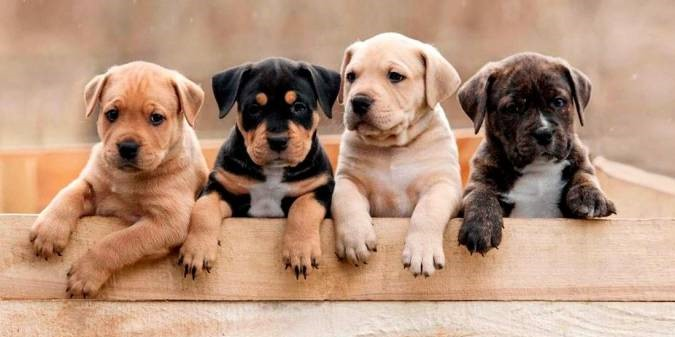
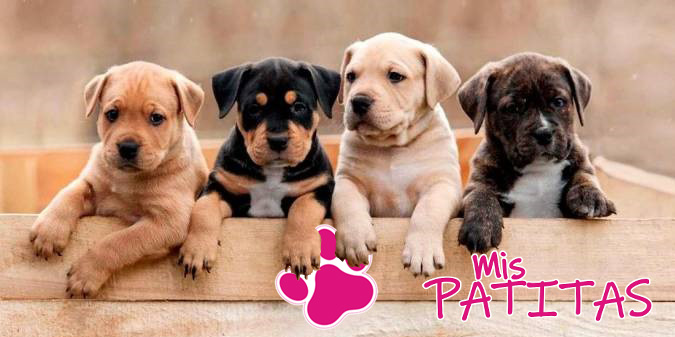
agregado de imagenes editadas y correciones en codigo index y secciones y productos

Changed region(s): [[0.6222, 0.7418, 0.9644, 0.9496], [0.4044, 0.6528, 0.56, 0.9792]]

diff --git a/seccion-pequenas.html b/seccion-pequenas.html
@@ -21,28 +21,27 @@
     <div id="border50" style="padding: 20px;">
         <img src="./MP IMG/pequenas-en-cosntruccion.jpg" alt="" style="width: 40vw;">
     </div>
-
-    <!-- Imagen trigger para modal -->
-    <img src="./MP IMG/huella-click.png" style="cursor: pointer;" alt="huella-click-aquí" data-bs-toggle="modal" data-bs-target="#exampleModal">
+      <!-- Imagen trigger para modal -->
+    <img id="huella-click" src="./MP IMG/huella-click.png" style="cursor: pointer;" alt="huella-click-aquí" data-bs-toggle="modal" data-bs-target="#exampleModal">
       
     <!-- Modal -->
     <div class="modal fade" id="exampleModal" tabindex="-1" aria-labelledby="exampleModalLabel" aria-hidden="true">
-        <div class="modal-dialog">
-          <div class="modal-content">
-            <div class="modal-header">
-              <h1 class="modal-title fs-5" id="exampleModalLabel">Ahora en Mis Patitas...</h1>
-              <button type="button" class="btn-close" data-bs-dismiss="modal" aria-label="Close"></button>
-            </div>
-            <div class="modal-body">
-              <p>Estamos trabajando para brindarte la mejor experiencia en nuestro sitio!!</p>
-              <p>En breve ya estará todo listo!</p>
-              <div><p>Te esperamos</p>
-                  <!-- <img src="" alt=""> -->
+      <div class="modal-dialog">
+        <div class="modal-content">
+          <div class="modal-header">
+            <h1 class="modal-title fs-5" id="exampleModalLabel">Ahora en Mis Patitas...</h1>
+            <button type="button" class="btn-close" data-bs-dismiss="modal" aria-label="Close"></button>
+          </div>
+          <div class="modal-body">
+            <p>Estamos trabajando para brindarte la mejor experiencia en nuestro sitio!!</p>
+            <p>En breve ya estará todo listo!</p>
+            <div><p>Te esperamos</p>
+                <img style="width: 30px;" src="./MP IMG/huella-sola.png" alt="huella logo mis patitas">
             </div>
           </div>     
         </div>
+      </div>
     </div>
-
 </main>
 <footer>
     Tienda de Mascotas "Mis Patitas" Mar del Plata- 2023

diff --git a/index.html b/index.html
@@ -49,17 +49,17 @@
        <div class="nuestras-secciones">
           <a href="./seccion-gatos.html">
           <img src="./Fotos-Index/Section-gatos.jpg" alt="Sección Gatos"></a>
-          <div class="seccion-mascota"><p>Sección Gatos</p></div>
+          <div class="seccion-mascota"><a href="./seccion-gatos.html"><p>Sección Gatos</p></a></div>
       </div>
        <div class="nuestras-secciones">
         <a href="././seccion-perros.html">
         <img src="./Fotos-Index/Section-Perros.jpg" alt="Sección Perros"></a>
-        <div class="seccion-mascota"><p>Sección Perros</p></div>
+        <div class="seccion-mascota"><a href="./seccion-perros.html"><p>Sección Perros</p></a></div>
       </div>
        <div class="nuestras-secciones">
         <a href="./seccion-pequenas.html">
         <img src="./Fotos-Index/Section-pequeñas-mascotas.jpg" alt="Sección Pequeñas Mascotas"></a>
-        <div class="seccion-mascota"><p>Sección Pequeñas Mascotas</p></div>
+        <div class="seccion-mascota"><a href="./seccion-pequenas.html"><p>Pequeñas Mascotas</p></a></div>
       </div>
     </div>
     
@@ -71,9 +71,9 @@
         <p>Lorem, ipsum dolor sit amet consectetur adipisicing elit. Suscipit reprehenderit provident, nisi porro dignissimos minus eveniet praesentium cum placeat deleniti non laboriosam mollitia? Alias, laboriosam numquam maiores odio repellendus possimus assumenda voluptatibus dolorum. Quasi a, unde minima officia, at ut ipsa necessitatibus, totam provident hic eos inventore amet neque illum?</p>
  
     <div id="grilla1">
-       <a href="./alimentos.html"><img src="./MP IMG/ALIMENTO-LOGO-PRUEBA.jpg" alt=""></a>
-       <img src="./MP IMG/ROPA-LOGO-PRUEBA.jpg" alt="">
-       <img src="./MP IMG/ACCESORIOS-PRUEBA.png" alt="">
+       <a href="./alimentos.html"><img src="./Fotos-Index/producto-alimentos.jpg" alt=""></a>
+       <img src="./Fotos-Index/producto-ropa.jpg" alt="">
+       <img src="./Fotos-Index/producto-accesorios.jpg" alt="">
        <!-- <img src="https://placehold.co/150x150" alt=""> -->
 
     </div>

diff --git a/seccion-perros.html b/seccion-perros.html
@@ -23,24 +23,25 @@
     </div>
 
     <!-- Imagen trigger para modal -->
-    <img src="./MP IMG/huella-click.png" style="cursor: pointer;" alt="huella-click-aquí" data-bs-toggle="modal" data-bs-target="#exampleModal">
-      
+    <img id="huella-click" src="./MP IMG/huella-click.png" style="cursor: pointer;" alt="huella-click-aquí" data-bs-toggle="modal" data-bs-target="#exampleModal">
+    
     <!-- Modal -->
     <div class="modal fade" id="exampleModal" tabindex="-1" aria-labelledby="exampleModalLabel" aria-hidden="true">
-        <div class="modal-dialog">
-          <div class="modal-content">
-            <div class="modal-header">
-              <h1 class="modal-title fs-5" id="exampleModalLabel">Ahora en Mis Patitas...</h1>
-              <button type="button" class="btn-close" data-bs-dismiss="modal" aria-label="Close"></button>
-            </div>
-            <div class="modal-body">
-              <p>Estamos trabajando para brindarte la mejor experiencia en nuestro sitio!!</p>
-              <p>En breve ya estará todo listo!</p>
-              <div><p>Te esperamos</p>
-                  <img src="" alt="">
+      <div class="modal-dialog">
+        <div class="modal-content">
+          <div class="modal-header">
+            <h1 class="modal-title fs-5" id="exampleModalLabel">Ahora en Mis Patitas...</h1>
+            <button type="button" class="btn-close" data-bs-dismiss="modal" aria-label="Close"></button>
+          </div>
+          <div class="modal-body">
+            <p>Estamos trabajando para brindarte la mejor experiencia en nuestro sitio!!</p>
+            <p>En breve ya estará todo listo!</p>
+            <div><p>Te esperamos</p>
+                <img style="width: 30px;" src="./MP IMG/huella-sola.png" alt="huella logo mis patitas">
             </div>
           </div>     
         </div>
+      </div>
     </div>
 
 </main>

diff --git a/styles.css b/styles.css
@@ -174,20 +174,20 @@ footer{
 .tipo-bolsa{
     display: none;
     position: absolute;
-    top: 100%;
+    top: 75%;
     left: 50%;
     transform: translateX(-50%);
     width: 150px;
-    color: black;
-    background-color: rgb(228, 225, 225)
+    color: rgb(26, 25, 25);
+    font-weight: bold;
+    background-color: rgb(228, 225, 225, 0.7)
     
 }
 .alim-item:hover .tipo-bolsa{
     display: flex;
     flex-direction: column;
     border-radius: 15px;
-    border: 1px solid;
-    box-shadow: 0 0 10px rgba(0, 0, 0, 0.7);
+    border: 2px solid;
     transition: top 0.5s;
     z-index: 1;
 
@@ -199,27 +199,32 @@ footer{
 .seccion-mascota{
     display: none;
     position: absolute;
-    top: 100%;
+    top: 50%;
     left: 50%;
     transform: translateX(-50%);
     width: 150px;
     color: black;
-    background-color: rgb(228, 225, 225)
+    background-color: rgb(228, 225, 225, 0.5)
 }
 .seccion-mascota p{
-    font-size: larger;
+    font-size: x-large;
 }
-
+.seccion-mascota a{
+    text-decoration: none;
+    color: black;
+}
 
 .nuestras-secciones:hover .seccion-mascota {
     display: flex;
     flex-direction: column;
     border-radius: 15px;
-    border: 1px solid;
-    box-shadow: 0 0 10px rgba(0, 0, 0, 0.7);
+    border: 3px solid;
+    border-color: rgb(218, 15, 167);
     transition: top 0.5s;
     z-index: 1;
 }
+
+
 /* tratando de hacer hover en huella-click en gatos */
 #huella-click {
     transform: 0.3s ease-in-out;

diff --git a/seccion-gatos.html b/seccion-gatos.html
@@ -37,9 +37,10 @@
               <p>Estamos trabajando para brindarte la mejor experiencia en nuestro sitio!!</p>
               <p>En breve ya estará todo listo!</p>
               <div><p>Te esperamos</p>
-                  <!-- <img src="" alt=""> -->
-            </div>
-          </div>     
+                  <img style="width: 30px;" src="./MP IMG/huella-sola.png" alt="huella logo mis patitas">
+              </div>
+            </div>     
+          </div>
         </div>
       </div>
 </main>
